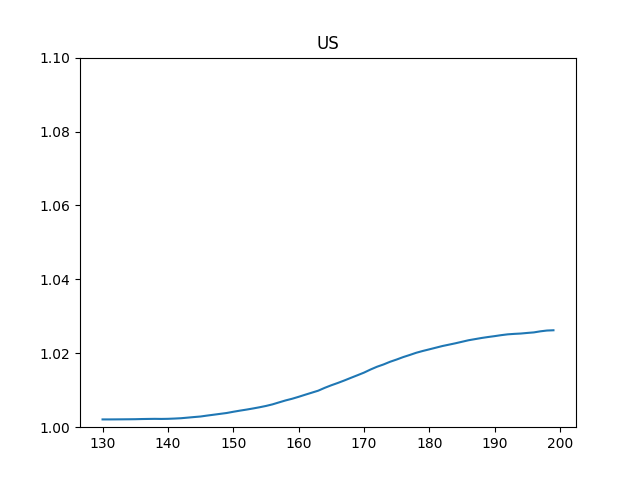
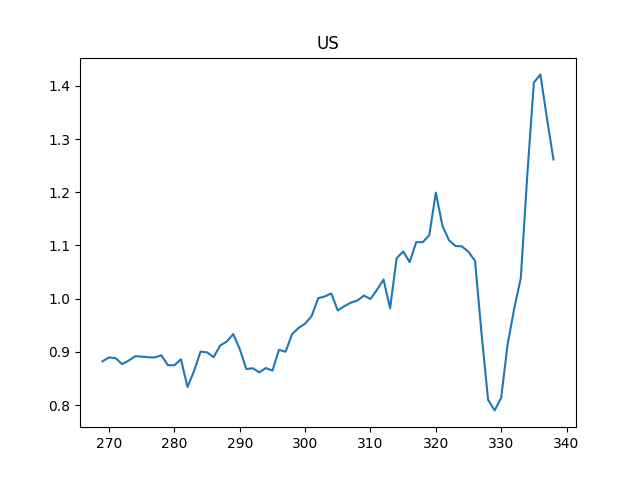
-

diff --git a/en/2020/02/corona.md b/en/2020/02/corona.md
@@ -103,38 +103,6 @@ Country/Region  Germany +     UK +      US +
 9/3/21             2899.0  42355.0  300957.0
 ```
 
-<a name='Rt'/>
-
-Reproduction Rate $R_t$
-
-This calculation is based on [1]
-
-```python
-tau = 7 # length of time window
-si_mean = 6.3 # mean of serial interval
-si_std = 4.2 # standard deviation of serial interval
-conf = 0.95 # confidence level of estimated Reff
-c = df['US'].tail(200)
-R = util.Reff(c, si_mean, si_std, tau, conf)
-df2 = pd.DataFrame(R.T)
-print (df2[1].tail(5))
-# 0,2 indices 95% conf
-df2[1].tail(70).plot()
-plt.title('US')
-plt.ylim(1.0,1.1)
-plt.savefig('Rt-US.png')
-```
-
-```text
-195    1.025505
-196    1.025649
-197    1.025940
-198    1.026153
-199    1.026227
-Name: 1, dtype: float64
-```
-
-![](Rt-US.png)
 
 ### Graphs
 
@@ -143,7 +111,7 @@ Name: 1, dtype: float64
 US Daily Deaths, 7-Day Moving Average
 
 ```python
-import util
+import util, pandas as pd
 df = util.get_data_combined()
 df1 = df[(df['Country/Region']=='US')&(df.index > '2021-01-01')]
 df1['New deaths'] = df1['New deaths'].rolling(7).mean()
@@ -152,6 +120,44 @@ plt.savefig('US-deaths.png')
 ```
 
 ![](US-deaths.png)
+
+
+<a name='Rt'/>
+
+Reproduction Rate $R_t$
+
+This calculation is based on [1]
+
+```python
+import util, pandas as pd
+
+df1 = df[(df['Country/Region']=='US')&(df.index > '2021-01-01')]
+tau = 7 # length of time window
+si_mean = 6.3 # mean of serial interval
+si_std = 4.2 # standard deviation of serial interval
+conf = 0.95 # confidence level of estimated Reff
+c = df1['New cases']
+R = util.Reff(c, si_mean, si_std, tau, conf)
+df2 = pd.DataFrame(R.T)
+print (df2[1].tail(5))
+# 0,2 indices 95% conf
+df2[1].tail(70).plot()
+plt.title('US')
+plt.savefig('Rt-US.png')
+```
+
+```text
+334    1.232562
+335    1.406013
+336    1.421371
+337    1.339214
+338    1.261536
+Name: 1, dtype: float64
+```
+
+![](Rt-US.png)
+
+
 
 
 
